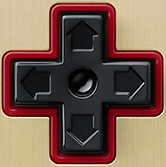
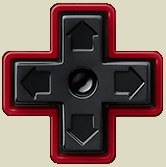
Cruceta perfectamente representada
Colocada la cruceta de la consola correctamente, en su posición original.

diff --git a/01-Videoconsola/index.html b/01-Videoconsola/index.html
@@ -7,7 +7,7 @@
     <meta name="viewport" content="width=device-width, initial-scale=1.0">
     <title>Videoconsola</title>
     <link href="CSS/estilo.css" rel="stylesheet">
-</head>
+</head> 
 
 <body>
     <!-- <img class="reference" src="./IMG/GW.png"> -->
@@ -18,7 +18,7 @@
                     <img class="logo" src="IMG/01-GAW.png" alt="Logo">
                 </div>
                 <div class="downleft">
-                    <!-- <img src="./IMG/02-cruceta.png" alt="cruceta"> -->
+                    <img class="cruceta" src="IMG/02-cruceta.png" alt="cruceta">
                 </div>
             </div>
             <div class="center">
@@ -35,7 +35,6 @@
                         </div>
                     </div>
                 </div>
-                <!-- <img src="./IMG/03-pantalla.png" alt="pantalla"> -->
             </div>
             <div class="right">
                 <div class="topright">
@@ -47,7 +46,6 @@
                         <div class="smallbottons"></div>
                         <div class="textbottons">PAUSE/SET</div>
                     </div>
-                    <!-- <img src="./IMG/04-botones1.png" alt="botones1"> -->
                 </div>
                 <div class="downright">
                     <div class="bottonbox2">
@@ -60,7 +58,6 @@
                             <div class="letterbottons">A</div>
                         </div>
                     </div>
-                    <!-- <img src="./IMG/05-botones2.png" alt="botones2"> -->
                 </div>
             </div>
         </div>

diff --git a/01-Videoconsola/CSS/estilo.css b/01-Videoconsola/CSS/estilo.css
@@ -11,7 +11,7 @@ body {
     justify-content: center;
     align-items: center;
     z-index: 3;
-    background-color: brown;
+    background-color: rgb(97, 16, 16);
     /* opacity: .5; */
     width: 30rem;
     height: 18rem;
@@ -26,7 +26,6 @@ body {
     justify-content: center;
     align-items: center;
 }
-
 .reference{
     position:fixed;
     width: 30rem;
@@ -57,6 +56,14 @@ body {
 }
 .downleft{
     height: 50%;
+    display: flex;
+    align-items: center;
+    justify-content: center;
+}
+.cruceta{
+    width: 5rem;
+    height: auto;
+    margin-bottom: .5rem;
 }
 
 .topright{
@@ -78,7 +85,7 @@ body {
 
 .smallbottons {
     background-color: rgb(209, 190, 190);
-    border: .25rem solid brown;
+    border: .25rem solid rgb(97, 16, 16);
     border-radius: 1.5rem 1.5rem;
     height: .8rem;
     width: 1.5rem;
@@ -115,19 +122,19 @@ body {
     font-family: Helvetica, sans-serif;
 }
 .bottonAB {
-    background-color: red;
-    border: .2rem solid rgb(46, 32, 6);
+    background-color: rgba(204, 13, 13, 0.945);
+    border: .2rem solid rgb(97, 16, 16);
     border-radius: 50%;
     height: 2.3rem;
     width: 2.3rem;
 }
 .logo{
-    width: 3.5rem;
+    width: 4rem;
     height: 3.5rem;
     margin-top: -.8rem;
 }
 .screen {
-    border: .3rem solid red;
+    border: .3rem solid rgb(97, 16, 16);
     padding: .5rem .8rem;
     border-radius: .5rem;
     display: flex;
